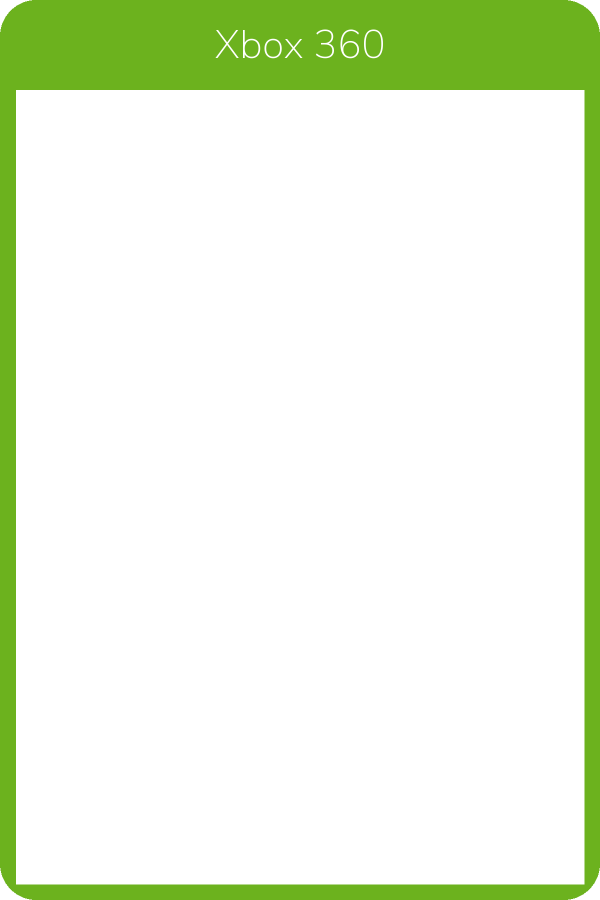
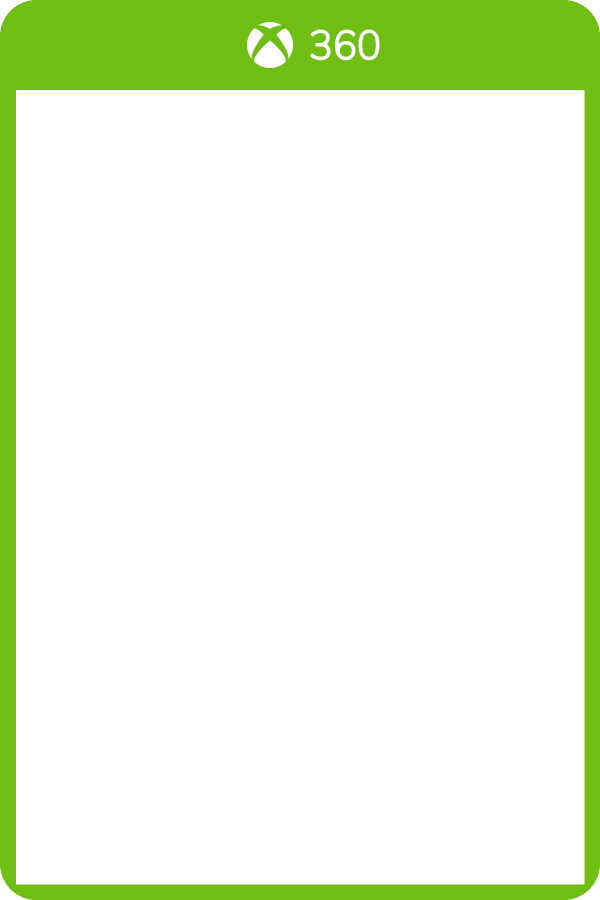
feat: console case artwork

Changed region(s): [[0.36, 0.0311, 0.66, 0.0933]]

diff --git a/tools/build_cases.py b/tools/build_cases.py
@@ -2,42 +2,85 @@
 # SPDX-License-Identifier: GPL-3.0-or-later
 # Copyright (C) 2026 Diego Bergonsi. Part of steam-case-covers: https://github.com/diegobergonsi/steam-case-covers
 """Maintainers only: draw assets/cases/<platform>.png (600x900, a transparent art window) and assets/cases/cases.json (the window of each).
-PLACEHOLDER ART: plain coloured cases with the platform's name, so the whole feature can be built and tested. The real cases and logos replace this
-(see docs/superpowers/plans/2026-10-31-platform-cases.md, task 11). Needs Pillow only. Users of steamcase.py do NOT need this: the files are committed."""
-import json, os
+A case is a rounded shell in the console's colour with a banner on top: the console's logo on the left, its model on the right.
+The logos are in tools/src/cases/ (Simple Icons, CC0; see SOURCES.txt there). Where Simple Icons has no mark for a model (Xbox 360, Xbox One, Xbox Series X|S,
+Switch 2) the console's mark is drawn with the model typeset in Nunito Sans, not the official wordmark.
+Needs Pillow and rsvg-convert (librsvg). Users of steamcase.py do NOT need this: the files are committed."""
+import io, json, os, subprocess
 from PIL import Image, ImageDraw, ImageFont
 
 HERE = os.path.dirname(os.path.abspath(__file__))
 OUT = os.path.join(HERE, "..", "assets", "cases")
+SRC = os.path.join(HERE, "src", "cases")
 FONT = os.path.join(HERE, "src", "fonts", "NunitoSans.ttf")
 SIZE = (600, 900)
 RADIUS = 36
-SIDE = 16                                   # the case's border left and right of the art, and under it
-# platform: (label, banner colour, banner height); the art window starts under the banner
-CASES = {"ps3": ("PlayStation 3", (20, 20, 24), 90), "ps4": ("PlayStation 4", (0, 67, 156), 90), "ps5": ("PlayStation 5", (245, 245, 250), 90),
-         "xbox360": ("Xbox 360", (108, 178, 30), 90), "xboxone": ("Xbox One", (16, 124, 16), 90),
-         "xboxseries": ("Xbox Series X|S", (16, 124, 16), 90), "switch": ("Nintendo Switch", (230, 0, 18), 110),
-         "switch2": ("Nintendo Switch 2", (230, 0, 18), 110)}
+SIDE = 16                                   # the shell left, right and under the art
+CONTENT = (190, 440)                        # the part of the banner the family corner and the 100% rosette leave free (x range)
+MARK, WORDMARK, GAP = 46, 130, 14            # the console's mark (a square box), the PlayStation wordmark's box and the space between them
+SS = 2                                      # drawn twice as large, then shrunk: smooth corners and edges
+WHITE, BLACK = (255, 255, 255), (16, 20, 28)
+# platform: banner colour, ink (logos and text), banner height, logo on the left, what is on the right: ("svg", file) or ("text", words)
+CASES = {
+    "ps3": {"shell": (22, 22, 26), "ink": WHITE, "banner": 90, "left": "playstation.svg", "right": ("svg", "playstation3.svg")},
+    "ps4": {"shell": (0, 55, 145), "ink": WHITE, "banner": 90, "left": "playstation.svg", "right": ("svg", "playstation4.svg")},
+    "ps5": {"shell": (244, 246, 250), "ink": (0, 55, 145), "banner": 90, "left": "playstation.svg", "right": ("svg", "playstation5.svg")},
+    "xbox360": {"shell": (110, 190, 20), "ink": WHITE, "banner": 90, "left": "xbox.svg", "right": ("text", "360")},
+    "xboxone": {"shell": (16, 124, 16), "ink": WHITE, "banner": 90, "left": "xbox.svg", "right": ("text", "ONE")},
+    "xboxseries": {"shell": (16, 124, 16), "ink": WHITE, "banner": 90, "left": "xbox.svg", "right": ("text", "SERIES X|S")},
+    "switch": {"shell": (230, 0, 18), "ink": WHITE, "banner": 100, "left": "nintendoswitch.svg", "right": ("text", "Nintendo Switch")},
+    "switch2": {"shell": (230, 0, 18), "ink": WHITE, "banner": 100, "left": "nintendoswitch.svg", "right": ("text", "Nintendo Switch 2")},
+}
 
 
-def draw_case(label, colour, banner):
-    ss = 2                                  # drawn twice as large, then shrunk: smooth corners
-    big = Image.new("RGBA", (SIZE[0] * ss, SIZE[1] * ss), (0, 0, 0, 0))
+def logo(name, box, ink):
+    """A Simple Icons mark in a square `box` pixels wide (times SS), painted in `ink`. The marks sit in a 24 x 24 square: the wordmarks are wide and short."""
+    with open(os.path.join(SRC, name), encoding="utf-8") as f:
+        svg = f.read().replace("<path ", '<path fill="#%02x%02x%02x" ' % ink, 1)
+    png = subprocess.run(["rsvg-convert", "-f", "png", "-w", str(box * SS), "-h", str(box * SS)], input=svg.encode(), check=True, capture_output=True).stdout
+    return Image.open(io.BytesIO(png)).convert("RGBA")
+
+
+def trimmed(im):
+    """The picture cut to what is drawn (the marks sit in a square with room around them)."""
+    return im.crop(im.getchannel("A").getbbox())
+
+
+def draw_case(spec):
+    big = Image.new("RGBA", (SIZE[0] * SS, SIZE[1] * SS), (0, 0, 0, 0))
     d = ImageDraw.Draw(big)
-    d.rounded_rectangle((0, 0, big.width - 1, big.height - 1), RADIUS * ss, fill=colour + (255,))
+    d.rounded_rectangle((0, 0, big.width - 1, big.height - 1), RADIUS * SS, fill=spec["shell"] + (255,))
+    banner = spec["banner"]
     window = (SIDE, banner, SIZE[0] - SIDE, SIZE[1] - SIDE)
-    d.rectangle([v * ss for v in window], fill=(0, 0, 0, 0))
-    light = sum(colour) > 600
-    font = ImageFont.truetype(FONT, 40 * ss)
-    d.text((SIZE[0] * ss // 2, banner * ss // 2), label, font=font, fill=(20, 20, 24, 255) if light else (255, 255, 255, 255), anchor="mm")
+    d.rectangle([v * SS for v in window], fill=(0, 0, 0, 0))
+    mid = banner * SS // 2
+    mark = trimmed(logo(spec["left"], MARK, spec["ink"]))
+    kind, what = spec["right"]
+    room = (CONTENT[1] - CONTENT[0]) * SS - mark.width - GAP * SS                  # what is left of the banner's middle part for the model
+    if kind == "svg":
+        word = trimmed(logo(what, WORDMARK, spec["ink"]))
+    else:                                   # the model typeset: as large as fits, up to the banner's height
+        size = 40 * SS
+        while True:
+            font = ImageFont.truetype(FONT, size)
+            box = d.textbbox((0, 0), what, font=font, stroke_width=SS)
+            if box[2] - box[0] <= room or size <= 10 * SS:
+                break
+            size -= SS
+        word = Image.new("RGBA", (box[2] - box[0] + 2 * SS, box[3] - box[1] + 2 * SS), (0, 0, 0, 0))
+        ImageDraw.Draw(word).text((SS - box[0], SS - box[1]), what, font=font, fill=spec["ink"] + (255,), stroke_width=SS, stroke_fill=spec["ink"] + (255,))
+    total = mark.width + GAP * SS + word.width                                       # the mark and the model, together, in the middle of the banner:
+    left = (CONTENT[0] + CONTENT[1]) * SS // 2 - total // 2                          # the family corner (left) and the 100% rosette (right) never cover them
+    big.alpha_composite(mark, (left, mid - mark.height // 2))
+    big.alpha_composite(word, (left + mark.width + GAP * SS, mid - word.height // 2))
     return big.resize(SIZE, Image.BOX), window          # BOX: an exact 2:1 shrink, so the window's edge stays sharp
 
 
 def main():
     os.makedirs(OUT, exist_ok=True)
     windows = {}
-    for key, (label, colour, banner) in CASES.items():
-        frame, window = draw_case(label, colour, banner)
+    for key, spec in CASES.items():
+        frame, window = draw_case(spec)
         frame.save(os.path.join(OUT, key + ".png"), format="PNG", optimize=True)
         windows[key] = {"window": list(window)}
     with open(os.path.join(OUT, "cases.json"), "w", encoding="utf-8") as f:

diff --git a/tests/test_steamcase.py b/tests/test_steamcase.py
@@ -3644,6 +3644,36 @@ class SelfCheckConsoleCases(Base):
         self.assertEqual(selfcheck.engine_problems(), [])
 
 
+class ConsoleCaseCredits(unittest.TestCase):
+    """The marks on the console cases belong to their owners, and the files we took them from have licences: docs/THIRD_PARTY.md says both."""
+
+    def text(self):
+        with open(os.path.join(sc.HERE, "docs", "THIRD_PARTY.md"), encoding="utf-8") as f:
+            return f.read()
+
+    def test_it_names_the_marks_their_owners_and_that_there_is_no_affiliation(self):
+        text = self.text()
+        for needle in ("PlayStation", "Sony Interactive Entertainment", "Xbox", "Microsoft", "Nintendo", "assets/cases"):
+            self.assertIn(needle, text)
+        self.assertRegex(text, r"(?i)not affiliated with[^.]*Sony[^.]*Nintendo|not affiliated with[^.]*Nintendo[^.]*Sony")
+
+    def test_it_names_the_source_and_licence_of_every_logo_file(self):
+        text = self.text()
+        src = os.path.join(sc.HERE, "tools", "src", "cases")
+        for name in sorted(n for n in os.listdir(src) if n.endswith(".svg")):
+            self.assertIn(name, text)
+        self.assertIn("Simple Icons", text)
+        self.assertIn("CC0", text)
+        self.assertIn("not the official wordmark", text)
+
+    def test_every_logo_file_is_listed_in_the_sources_note(self):
+        src = os.path.join(sc.HERE, "tools", "src", "cases")
+        with open(os.path.join(src, "SOURCES.txt"), encoding="utf-8") as f:
+            note = f.read()
+        for name in (n for n in os.listdir(src) if n.endswith(".svg")):
+            self.assertIn(name, note)
+
+
 class ListGames(Base):
     """list_games tells the caller when the store could not be asked, so a window can say "offline" instead of showing a short list."""
 

diff --git a/docs/THIRD_PARTY.md b/docs/THIRD_PARTY.md
@@ -1,14 +1,19 @@
 # Third-party material and trademarks
 
-This project is **not affiliated with, endorsed by, or sponsored by Valve Corporation, Microsoft, or any game publisher.**
+This project is **not affiliated with, endorsed by, or sponsored by Valve Corporation, Microsoft, Sony Interactive Entertainment, Nintendo, or any game publisher.**
 
 ## Trademarks
 - **Steam** and the Steam logo are trademarks and/or registered trademarks of Valve Corporation.
 - **Windows** and the Windows logo are trademarks of the Microsoft group of companies.
+- **PlayStation**, the PlayStation logo, **PS3**, **PS4** and **PS5** are trademarks or registered trademarks of Sony Interactive Entertainment Inc.
+- **Xbox**, the Xbox logo, **Xbox 360**, **Xbox One** and **Xbox Series X|S** are trademarks of the Microsoft group of companies.
+- **Nintendo**, **Nintendo Switch** and **Nintendo Switch 2** and their logos are trademarks of Nintendo.
 - **Linux** is a trademark of Linus Torvalds. The penguin is "Tux".
 - **Discord** and its logo are trademarks of Discord Inc. The mark appears only as the button in the window's header that links to this project's Discord server; it does not mean that Discord endorses this project.
 
 These marks appear in `assets/frame.png` only to mimic a physical box and show platform support. They remain the property of their owners. If you are a rights holder and want something changed, open an issue.
+
+The console cases in `assets/cases/` (PlayStation 3, 4 and 5, Xbox 360, Xbox One, Xbox Series X|S, Nintendo Switch and Switch 2; drawn by `tools/build_cases.py`) carry those companies' marks only to mimic the physical cases of their games, as `assets/frame.png` does with Steam's. They remain the property of their owners, and this project is not affiliated with them. The PlayStation marks and the Nintendo Switch mark are the files from Simple Icons. Simple Icons has no mark for the Xbox 360, Xbox One and Xbox Series X|S models or for the Switch 2: there the console's mark (the Xbox sphere, the Switch logo) is drawn with the model typeset in Nunito Sans, which is not the official wordmark. If you are a rights holder and want something changed, open an issue and it will be.
 
 `assets/family_corner.png` is a green corner with a three-person icon drawn to resemble the Family icon in Steam's settings. It is original artwork and is not Valve's file.
 
@@ -23,6 +28,8 @@ These marks appear in `assets/frame.png` only to mimic a physical box and show p
 |---|---|---|
 | `tools/src/steam_logo.svg` | SVG Repo ("steam" icon) | **License not verified.** The logo itself is Valve's trademark. If a rights holder objects, it will be replaced. |
 | `tools/src/discord.svg` (rendered to `assets/discord.png`) | Simple Icons 13.0.0 ("Discord" icon) | CC0 1.0 (public domain dedication). The logo itself is Discord's trademark; see Trademarks above. |
+| `tools/src/cases/playstation.svg`, `playstation3.svg`, `playstation4.svg`, `playstation5.svg`, `nintendoswitch.svg` (rendered into `assets/cases/*.png`) | Simple Icons 13.0.0 ("PlayStation", "PlayStation 3", "PlayStation 4", "PlayStation 5", "Nintendo Switch" icons) | CC0 1.0 (public domain dedication). The marks themselves are trademarks of Sony Interactive Entertainment and Nintendo; see Trademarks above. |
+| `tools/src/cases/xbox.svg` (rendered into `assets/cases/*.png`) | Simple Icons 12.0.0 ("Xbox" icon; later versions removed it) | CC0 1.0 (public domain dedication). The mark itself is a trademark of the Microsoft group of companies; see Trademarks above. |
 | `tools/src/tux.svg` | KDE Breeze icon theme (`preferences-system-linux`), from the Arch Linux `breeze-icons` package | LGPL-3.0-or-later (package metadata also lists LGPL-2.1-only). Text: `tools/src/LICENSE-LGPL-3.0.txt` |
 | `tools/src/fonts/NunitoSans.ttf` | Nunito Sans, Google Fonts | SIL Open Font License 1.1 (`tools/src/fonts/OFL.txt`) |
 
